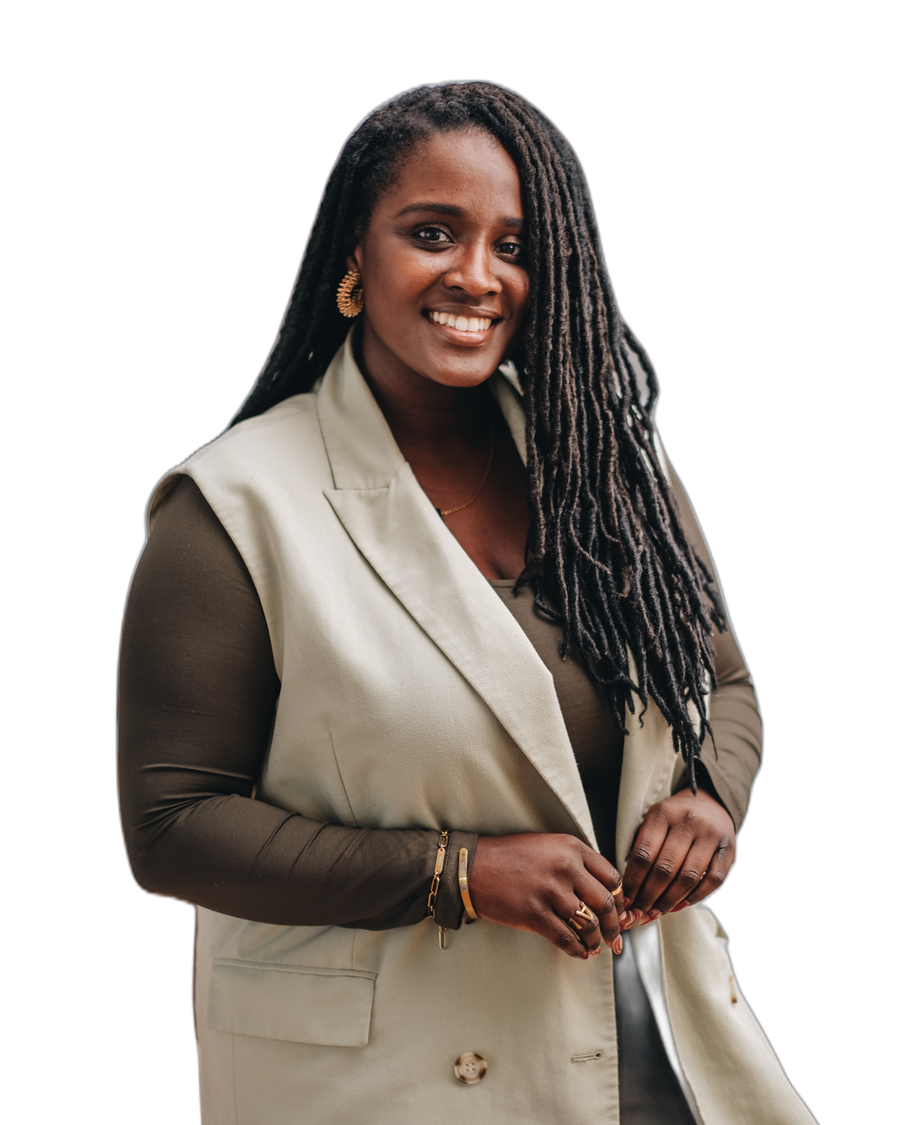
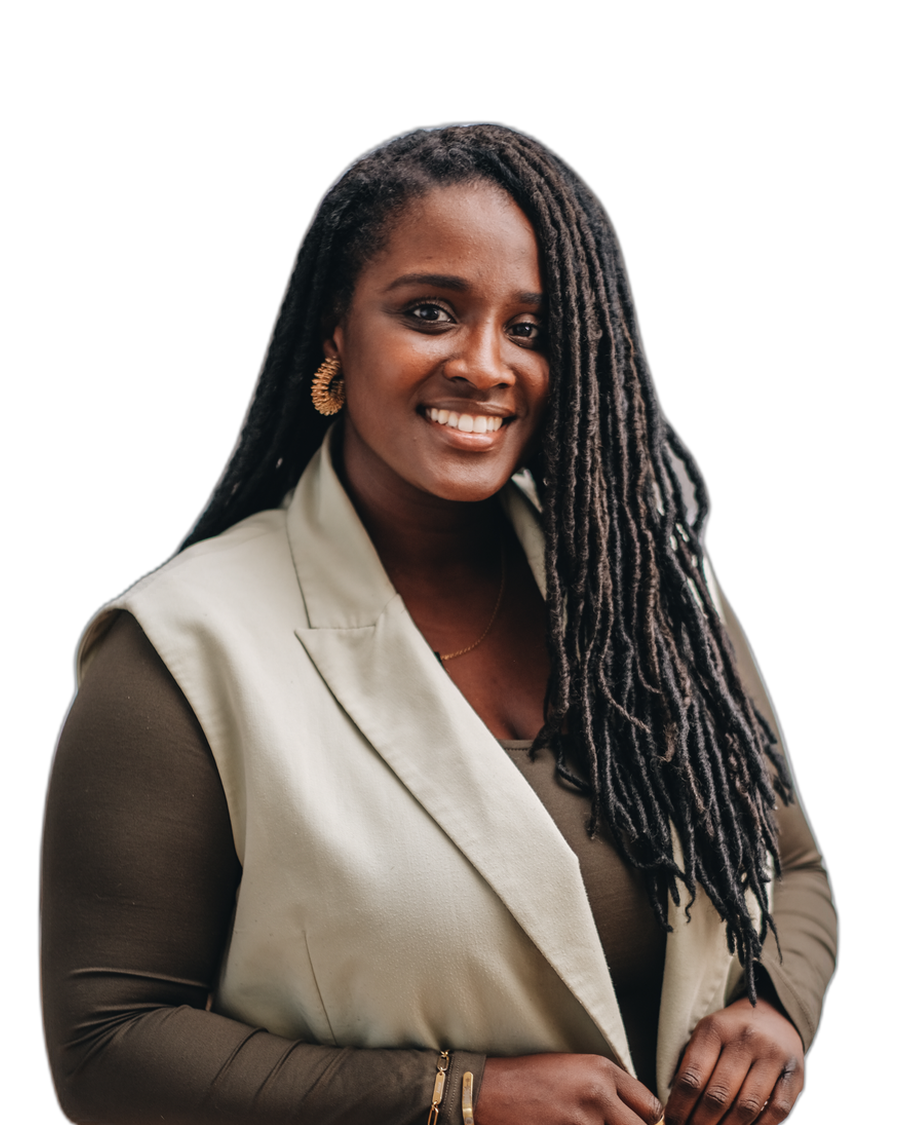
Padroniza fotos e cards dos facilitadores; encurta texto da Men Talks
- Fotos re-enquadradas com deteção facial (YuNet), calibradas a partir
  da foto do Paulo Vieira: mesmo tamanho e posição de rosto em todos
  os 7 retratos, em vez de escalar por largura da silhueta (o que
  produzia zooms muito diferentes consoante a pose)
- Grid de facilitadores passa de CSS grid para flex+wrap com
  justify-center: a última linha incompleta (3 cards) fica centrada
  em vez de alinhada à esquerda com espaço vazio à direita
- Cards com altura igual: bio curta limitada a 3 linhas (line-clamp) e
  "Ler mais" sempre ancorado ao fundo do card — resolve a
  inconsistência de tamanhos entre cards na mesma linha
- Texto da Men Talks (secção A União) encurtado: remove a enumeração
  final, mantém só as duas frases principais

diff --git a/components/FacilitadorCard.tsx b/components/FacilitadorCard.tsx
@@ -17,7 +17,7 @@ export function FacilitadorCard({ pessoa, base = "" }: { pessoa: Facilitador; ba
 
   return (
     <div
-      className="overflow-hidden rounded-[26px] transition-shadow"
+      className="flex h-full flex-col overflow-hidden rounded-[26px] transition-shadow"
       style={{
         background: "rgba(255,255,255,.55)",
         border: "1px solid rgba(35,77,87,.12)",
@@ -29,10 +29,10 @@ export function FacilitadorCard({ pessoa, base = "" }: { pessoa: Facilitador; ba
         onClick={() => setOpen((o) => !o)}
         aria-expanded={open}
         aria-controls={panelId}
-        className="block w-full cursor-pointer text-left"
+        className="flex w-full flex-1 cursor-pointer flex-col text-left"
       >
         <div
-          className="relative aspect-[4/5] w-full"
+          className="relative aspect-[4/5] w-full shrink-0"
           style={{ background: "linear-gradient(180deg,#eef2ee,#e2ebe5)" }}
         >
           <Image
@@ -43,22 +43,24 @@ export function FacilitadorCard({ pessoa, base = "" }: { pessoa: Facilitador; ba
             sizes="(max-width: 768px) 45vw, 260px"
           />
         </div>
-        <div className="px-5 pb-5 pt-4">
+        {/* min-h no papel + line-clamp na bio curta: todos os cards fechados
+            ficam com a mesma altura, independentemente do texto de cada um */}
+        <div className="flex flex-1 flex-col px-5 pb-5 pt-4">
           <span
             style={{ fontFamily: "var(--font-roboto)", color: T.sage }}
-            className="text-[10.5px] font-medium tracking-[0.2em] uppercase"
+            className="min-h-[2.4em] text-[10.5px] font-medium leading-snug tracking-[0.2em] uppercase"
           >
             {pessoa.papel}
           </span>
           <h3 style={{ fontFamily: "var(--font-cormorant)", color: T.teal }} className="mt-1 text-[22px]">
             {pessoa.nome}
           </h3>
-          <p className="mt-2 text-[15px] leading-relaxed" style={{ color: T.text }}>
+          <p className="mt-2 line-clamp-3 text-[15px] leading-relaxed" style={{ color: T.text }}>
             {pessoa.bioCurta}
           </p>
           <span
             style={{ fontFamily: "var(--font-cormorant)", color: T.teal }}
-            className="mt-3 inline-flex items-center gap-1.5 text-[15px] italic"
+            className="mt-auto inline-flex items-center gap-1.5 pt-3 text-[15px] italic"
           >
             {open ? "Fechar" : "Ler mais"}
             <motion.span animate={{ rotate: open ? 45 : 0 }} transition={{ duration: 0.3 }}>

diff --git a/app/cuidado-v2/page.tsx b/app/cuidado-v2/page.tsx
@@ -308,9 +308,15 @@ export default function Cuidado() {
               {FACILITADORES.intro}
             </p>
           </Reveal>
-          <div className="mt-14 grid grid-cols-2 gap-5 md:grid-cols-3 lg:grid-cols-4">
+          {/* flex + wrap (em vez de grid) para que a última linha incompleta
+              fique centrada em vez de alinhada à esquerda com espaço vazio */}
+          <div className="mt-14 flex flex-wrap justify-center gap-5">
             {FACILITADORES.pessoas.map((pessoa, i) => (
-              <Reveal key={pessoa.slug} delay={i * 0.05}>
+              <Reveal
+                key={pessoa.slug}
+                delay={i * 0.05}
+                className="h-full w-[calc(50%-10px)] md:w-[calc(33.333%-13.34px)] lg:w-[calc(25%-15px)]"
+              >
                 <FacilitadorCard pessoa={pessoa} base={BASE} />
               </Reveal>
             ))}

diff --git a/lib/content.ts b/lib/content.ts
@@ -54,7 +54,7 @@ export const UNIAO = {
     {
       name: "Men Talks",
       logo: "/logos/mentalks.svg",
-      text: "Cria espaço para conversas que muitas vezes não acontecem sobre emoções, presença, relações e novas formas de masculinidade consciente. Promove espaços de reflexão sobre masculinidades para construir uma sociedade mais igualitária, através do desenvolvimento de competências socioemocionais, da promoção da igualdade de género, da prevenção da violência e do respeito pela diversidade.",
+      text: "Cria espaço para conversas que muitas vezes não acontecem sobre emoções, presença, relações e novas formas de masculinidade consciente. Promove espaços de reflexão sobre masculinidades para construir uma sociedade mais igualitária.",
     },
   ],
   close:
